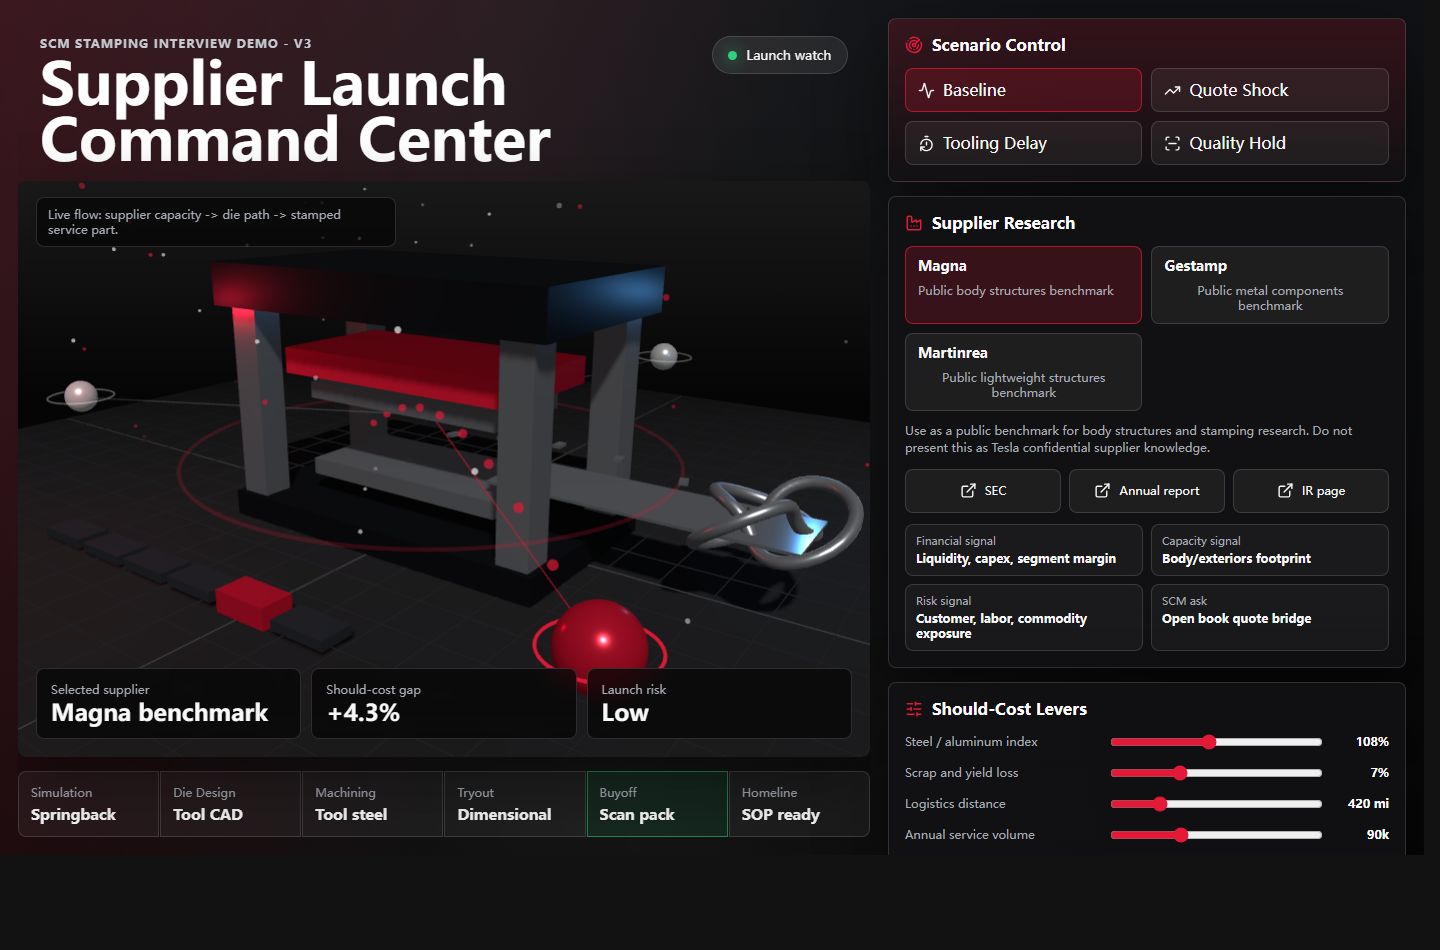
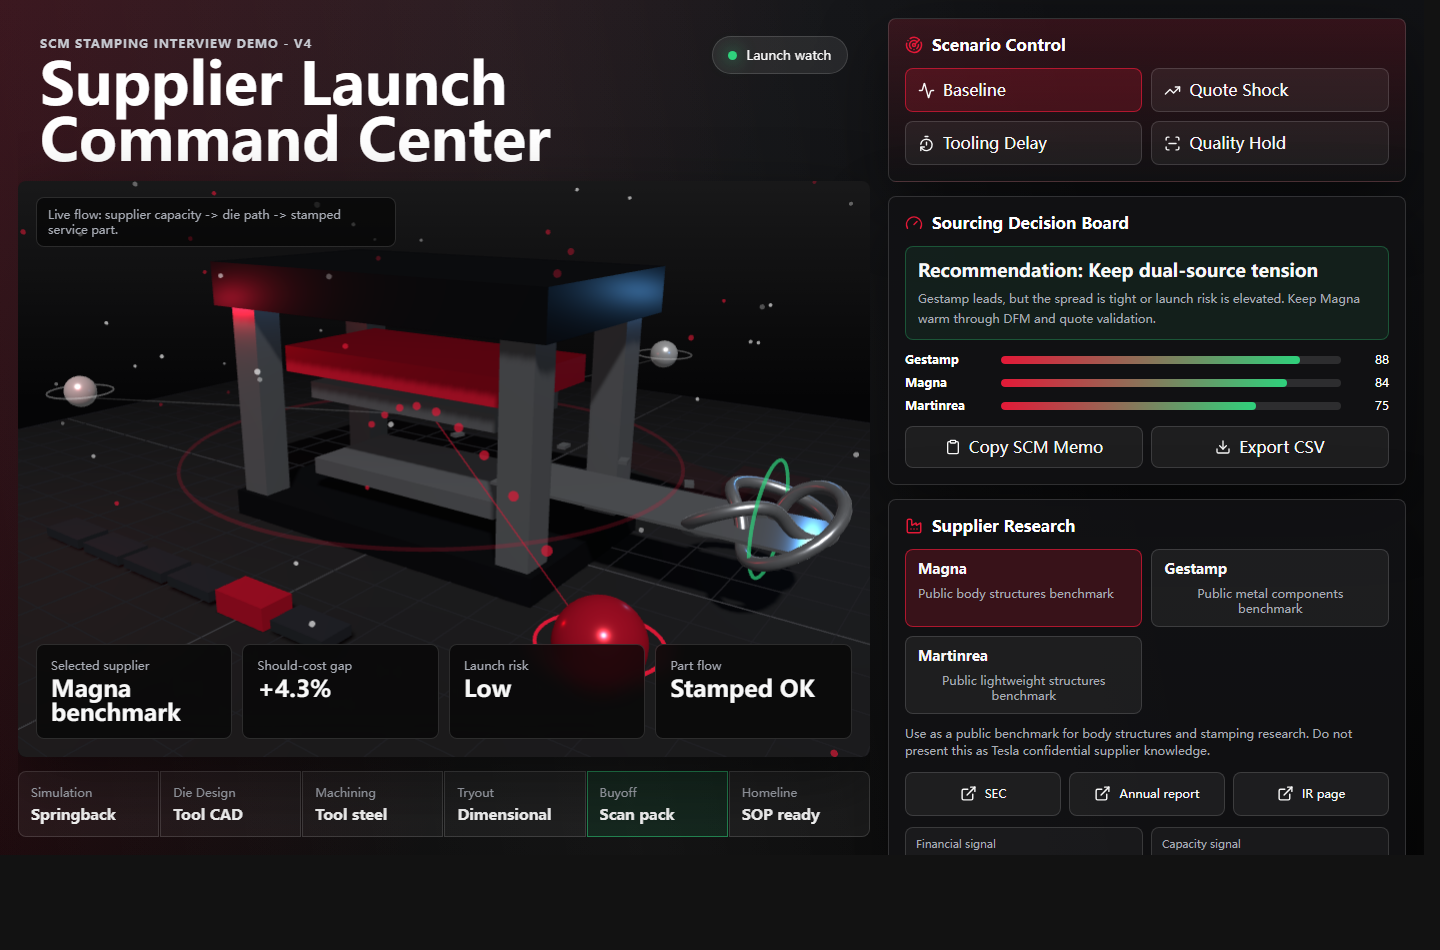
Add V4 risk-driven pass reject animation

diff --git a/app.js b/app.js
@@ -176,6 +176,7 @@ const els = {
   programStatus: document.querySelector("#programStatus"),
   gapMetric: document.querySelector("#gapMetric"),
   riskMetric: document.querySelector("#riskMetric"),
+  outputMetric: document.querySelector("#outputMetric"),
   supplierPicker: document.querySelector("#supplierPicker"),
   supplierNote: document.querySelector("#supplierNote"),
   sourceLinks: document.querySelector("#sourceLinks"),
@@ -293,6 +294,28 @@ stampedPart.rotation.set(Math.PI / 2, 0.2, 0);
 stampedPart.castShadow = true;
 scene.add(stampedPart);
 
+const successGate = new THREE.Mesh(
+  new THREE.TorusGeometry(0.62, 0.018, 10, 72),
+  new THREE.MeshBasicMaterial({ color: 0x2fd17c, transparent: true, opacity: 0.52 })
+);
+successGate.position.set(4.35, 1.08, 0);
+successGate.rotation.y = Math.PI / 2;
+scene.add(successGate);
+
+const rejectZone = new THREE.Group();
+rejectZone.position.set(2.35, 0.12, -2.7);
+scene.add(rejectZone);
+const rejectMaterial = new THREE.MeshStandardMaterial({
+  color: 0x5b151e,
+  roughness: 0.52,
+  metalness: 0.42,
+  transparent: true,
+  opacity: 0.48,
+});
+const rejectRamp = cube("rejectRamp", [1.95, 0.08, 0.82], [0, 0.34, 0], rejectMaterial, rejectZone);
+rejectRamp.rotation.z = -0.18;
+const rejectBin = cube("rejectBin", [0.9, 0.42, 0.95], [1.2, 0.2, -0.15], rejectMaterial, rejectZone);
+
 const riskHalo = new THREE.Mesh(
   new THREE.TorusGeometry(2.6, 0.018, 8, 100),
   new THREE.MeshBasicMaterial({ color: 0xe31937, transparent: true, opacity: 0.28 })
@@ -378,6 +401,7 @@ const pointer = new THREE.Vector2();
 let currentAccent = new THREE.Color(0xe31937);
 let currentRiskScore = 45;
 let currentSpeed = 1;
+let currentRejectMode = false;
 
 function money(value) {
   return `$${value.toFixed(2)}`;
@@ -391,6 +415,23 @@ function riskLabel(score) {
   if (score >= 72) return "High";
   if (score >= 46) return "Medium";
   return "Low";
+}
+
+function outputLabel(score) {
+  if (score >= 72) return "Slip reject";
+  if (score >= 46) return "Stamped OK - watch";
+  return "Stamped OK";
+}
+
+function applyQueryOverrides() {
+  const params = new URLSearchParams(window.location.search);
+  if (params.has("supplier") && suppliers[params.get("supplier")]) state.supplier = params.get("supplier");
+  if (params.has("scenario") && scenarios[params.get("scenario")]) state.scenario = params.get("scenario");
+  ["materialIndex", "scrapRate", "logisticsMiles", "annualVolume", "ecnSeverity", "sopBuffer"].forEach((key) => {
+    if (!params.has(key)) return;
+    const value = Number(params.get(key));
+    if (Number.isFinite(value)) state[key] = value;
+  });
 }
 
 function calculateModel(supplierKey = state.supplier) {
@@ -557,6 +598,7 @@ function updateStages(activeStage, riskScore) {
 function update3D(model) {
   currentAccent = new THREE.Color(model.scenario.accent);
   currentRiskScore = model.riskScore;
+  currentRejectMode = model.riskScore >= 72;
   currentSpeed = model.scenario.speed * (model.capacity < 1 ? 0.82 : 1) * Math.max(0.54, 1 - state.ecnSeverity * 0.055);
   materials.accent.color.lerp(currentAccent, 0.55);
   accentLight.color.copy(currentAccent);
@@ -564,6 +606,11 @@ function update3D(model) {
   riskHalo.material.color.copy(currentAccent);
   riskHalo.material.opacity = 0.12 + model.riskScore / 420;
   riskHalo.scale.setScalar(0.9 + model.riskScore / 105);
+  successGate.material.opacity = currentRejectMode ? 0.14 : model.riskScore >= 46 ? 0.42 : 0.72;
+  successGate.material.color.set(currentRejectMode ? 0x55565c : model.riskScore >= 46 ? 0xffb84d : 0x2fd17c);
+  rejectMaterial.opacity = currentRejectMode ? 0.82 : 0.26;
+  rejectMaterial.color.set(currentRejectMode ? 0xe31937 : 0x5b151e);
+  rejectZone.scale.setScalar(currentRejectMode ? 1.16 : 1);
   Object.entries(supplierNodes).forEach(([key, item]) => {
     const selected = key === state.supplier;
     item.node.material.color.set(selected ? model.scenario.accent : 0xffffff);
@@ -585,6 +632,7 @@ function updateAll() {
   els.programStatus.textContent = model.scenario.label;
   els.gapMetric.textContent = percent(model.gap);
   els.riskMetric.textContent = riskText;
+  els.outputMetric.textContent = outputLabel(model.riskScore);
   els.piecePrice.textContent = money(model.quote);
   els.shouldCost.textContent = money(model.shouldCost);
   els.toolingCost.textContent = `$${model.supplier.tooling.toFixed(2)}M`;
@@ -730,6 +778,10 @@ function resize() {
 
 window.addEventListener("resize", resize);
 resize();
+applyQueryOverrides();
+Object.entries(els.sliders).forEach(([key, input]) => {
+  input.value = state[key];
+});
 updateAll();
 
 const clock = new THREE.Clock();
@@ -766,11 +818,21 @@ function animate() {
     });
     outboundMarkers.forEach((marker) => {
       const t = (elapsed * 0.18 * currentSpeed + marker.userData.offset) % 1;
-      marker.position.lerpVectors(pressCenter, new THREE.Vector3(4.6, 1.04, 0), t);
-      marker.position.y += Math.sin(t * Math.PI) * 0.28;
-      marker.rotation.y = elapsed * 0.8 + t;
-      marker.material.color.set(currentRiskScore > 65 ? 0xffb84d : 0xdfe3ea);
-      marker.scale.setScalar(currentRiskScore > 65 ? 1.25 : 1);
+      if (currentRejectMode) {
+        const slipStart = new THREE.Vector3(0.7, 0.95, 0.08);
+        const rejectEnd = new THREE.Vector3(3.55, 0.42, -2.95);
+        marker.position.lerpVectors(slipStart, rejectEnd, t);
+        marker.position.y += Math.sin(t * Math.PI) * 0.16 - t * 0.16;
+        marker.rotation.set(elapsed * 1.3 + t * 3.2, elapsed * 1.7, -0.65 - t * 1.7);
+        marker.material.color.set(0xe31937);
+        marker.scale.set(1.55, 0.55, 1.08);
+      } else {
+        marker.position.lerpVectors(pressCenter, new THREE.Vector3(4.6, 1.04, 0), t);
+        marker.position.y += Math.sin(t * Math.PI) * 0.28;
+        marker.rotation.y = elapsed * 0.8 + t;
+        marker.material.color.set(currentRiskScore >= 46 ? 0xffb84d : 0xdfe3ea);
+        marker.scale.setScalar(currentRiskScore >= 46 ? 1.18 : 1);
+      }
     });
   }
   riskHalo.rotation.z += 0.008 * currentSpeed;

diff --git a/index.html b/index.html
@@ -3,7 +3,7 @@
   <head>
     <meta charset="utf-8" />
     <meta name="viewport" content="width=device-width, initial-scale=1" />
-    <title>Stamping SCM Command Center V3</title>
+    <title>Stamping SCM Command Center V4</title>
     <meta
       name="description"
       content="3D SCM dashboard for stamping supplier research, should-cost modeling, RFQ decisions, tooling milestones, and launch risk."
@@ -24,7 +24,7 @@
       <section class="visual-workspace" aria-label="3D stamping supply chain command center">
         <header class="topbar">
           <div>
-            <p class="eyebrow">SCM Stamping Interview Demo - V3</p>
+            <p class="eyebrow">SCM Stamping Interview Demo - V4</p>
             <h1><span>Supplier Launch</span><span>Command Center</span></h1>
           </div>
           <div class="status-pill" id="statusPill">
@@ -48,6 +48,10 @@
             <div class="metric">
               <span>Launch risk</span>
               <strong id="riskMetric">Medium</strong>
+            </div>
+            <div class="metric">
+              <span>Part flow</span>
+              <strong id="outputMetric">Stamped OK</strong>
             </div>
           </div>
         </div>

diff --git a/styles.css b/styles.css
@@ -144,7 +144,7 @@ h1 span {
   right: 18px;
   bottom: 18px;
   display: grid;
-  grid-template-columns: repeat(3, minmax(0, 1fr));
+  grid-template-columns: repeat(4, minmax(0, 1fr));
   gap: 10px;
   pointer-events: none;
 }

diff --git a/README.md b/README.md
@@ -1,8 +1,8 @@
-# Stamping SCM Command Center V3
+# Stamping SCM Command Center V4
 
 An interview-ready 3D web project built for a Tesla Supply Chain Manager, Stamping conversation.
 
-V3 is designed as a lightweight sourcing decision cockpit, not a static dashboard. It connects public supplier research, should-cost levers, ECN/timing risk, tooling bottlenecks, capacity cover, quality risk, sourcing ranking, supplier pressure questions, and exportable SCM memos.
+V4 is a lightweight sourcing decision cockpit that connects public supplier research, should-cost levers, ECN/timing risk, tooling bottlenecks, capacity cover, quality risk, sourcing ranking, supplier pressure questions, exportable SCM memos, and risk-driven stamped-part flow.
 
 ![Desktop preview](./assets/desktop-preview.png)
 
@@ -15,15 +15,26 @@ V3 is designed as a lightweight sourcing decision cockpit, not a static dashboar
 - Export a supplier scorecard CSV for follow-up analysis
 - Explain launch risk visually through supplier-to-press flow, die-stage bottlenecks, and output behavior
 
+## V4 Animation Logic
+
+The 3D animation now reflects launch outcome, not just status:
+
+- Low risk: parts flow through the press and exit as good stamped output
+- Medium risk: parts still stamp successfully, but output is highlighted as watch status
+- High risk: parts fail the good-output path and slip into a reject chute
+
+That makes the scene useful in a meeting: it shows the physical consequence of cost, quality, capacity, ECN, and timing risk.
+
 ## Why It Is More Than Excel
 
-Excel can track dates and formulas. V3 shows the physical and causal side that a spreadsheet does not communicate well:
+Excel can track dates and formulas. V4 shows the physical and causal side that a spreadsheet does not communicate well:
 
 - Supplier-to-press flow changes with selected supplier and risk
 - Press speed and output flow react to capacity, scrap, ECN severity, and scenario
 - Die-stage blocks highlight bottlenecks such as simulation, machining, tryout, buyoff, or homeline
 - Risk halo intensity changes with quote gap, quality, capacity, financial exposure, ECN load, and SOP buffer
 - Recommendation and pressure questions update from the same model
+- Pass/reject animation shows whether parts successfully stamp through
 
 ## Public Research Scope
 
@@ -49,13 +60,13 @@ http://127.0.0.1:5178
 
 ## Interview Pitch
 
-> I built a 3D Stamping SCM Command Center to show how I would bring coding and AI workflow thinking into this role. The app does not just display status; it turns supplier research, should-cost, ECN risk, capacity, tooling stages, and launch timing into a sourcing recommendation, pressure questions, and an exportable memo. My goal was to show the way I operate: structure ambiguity, connect data to action, and make cross-functional execution faster.
+> I built a 3D Stamping SCM Command Center to show how I would bring coding and AI workflow thinking into this role. The app does not just display status; it turns supplier research, should-cost, ECN risk, capacity, tooling stages, and launch timing into a sourcing recommendation, pressure questions, and an exportable memo. In V4, the 3D animation shows whether risk still allows stamped parts to flow through or causes parts to slip into reject flow. My goal was to show the way I operate: structure ambiguity, connect data to action, and make cross-functional execution faster.
 
 ## Files
 
 - `index.html` - app shell
 - `styles.css` - professional dark manufacturing UI
-- `app.js` - 3D simulation, supplier research, should-cost model, ranking, memo, and export logic
+- `app.js` - 3D simulation, supplier research, should-cost model, ranking, memo, export, and pass/reject logic
 - `server.js` - zero-dependency local server
 - `.github/workflows/pages.yml` - GitHub Pages deployment workflow
 - `INTERVIEW_PITCH.md` - short story and demo flow for the interview

diff --git a/INTERVIEW_PITCH.md b/INTERVIEW_PITCH.md
@@ -1,16 +1,17 @@
-# Interview Pitch: Stamping SCM Command Center V3
+# Interview Pitch: Stamping SCM Command Center V4
 
 ## 30-Second Version
 
-I built a 3D Stamping SCM Command Center to show how I would bring coding and AI workflow strengths into this role. V3 is not only a visualization. It combines public supplier research, should-cost levers, ECN severity, SOP timing buffer, supplier ranking, pressure questions, and a one-click SCM memo. The 3D scene shows supplier-to-press flow, die-stage bottlenecks, launch risk, and output behavior, so the model explains the physical consequences behind the numbers.
+I built a 3D Stamping SCM Command Center to show how I would bring coding and AI workflow strengths into this role. V4 connects public supplier research, should-cost levers, ECN severity, SOP timing buffer, supplier ranking, pressure questions, and a one-click SCM memo. The 3D scene is risk-driven: low and medium risk parts stamp through successfully, while high-risk conditions cause parts to slip into a reject path instead of leaving as good output.
 
 ## Demo Flow
 
 1. Select a supplier benchmark and show how public filing links turn into research extraction fields.
 2. Move material, scrap, logistics, ECN, and SOP-buffer levers and show how the decision board changes.
 3. Explain why the recommendation is nominate, dual-source tension, or hold nomination.
-4. Click Quote Shock, Tooling Delay, or Quality Hold to show how the action plan changes.
-5. Copy the SCM memo or export CSV to show how the project becomes useful after the meeting.
+4. Click Quality Hold, increase ECN severity, or reduce SOP buffer to trigger high risk.
+5. Show the output path changing from stamped-through flow to reject-slip flow.
+6. Copy the SCM memo or export CSV to show how the project becomes useful after the meeting.
 
 ## What This Shows About Me
 